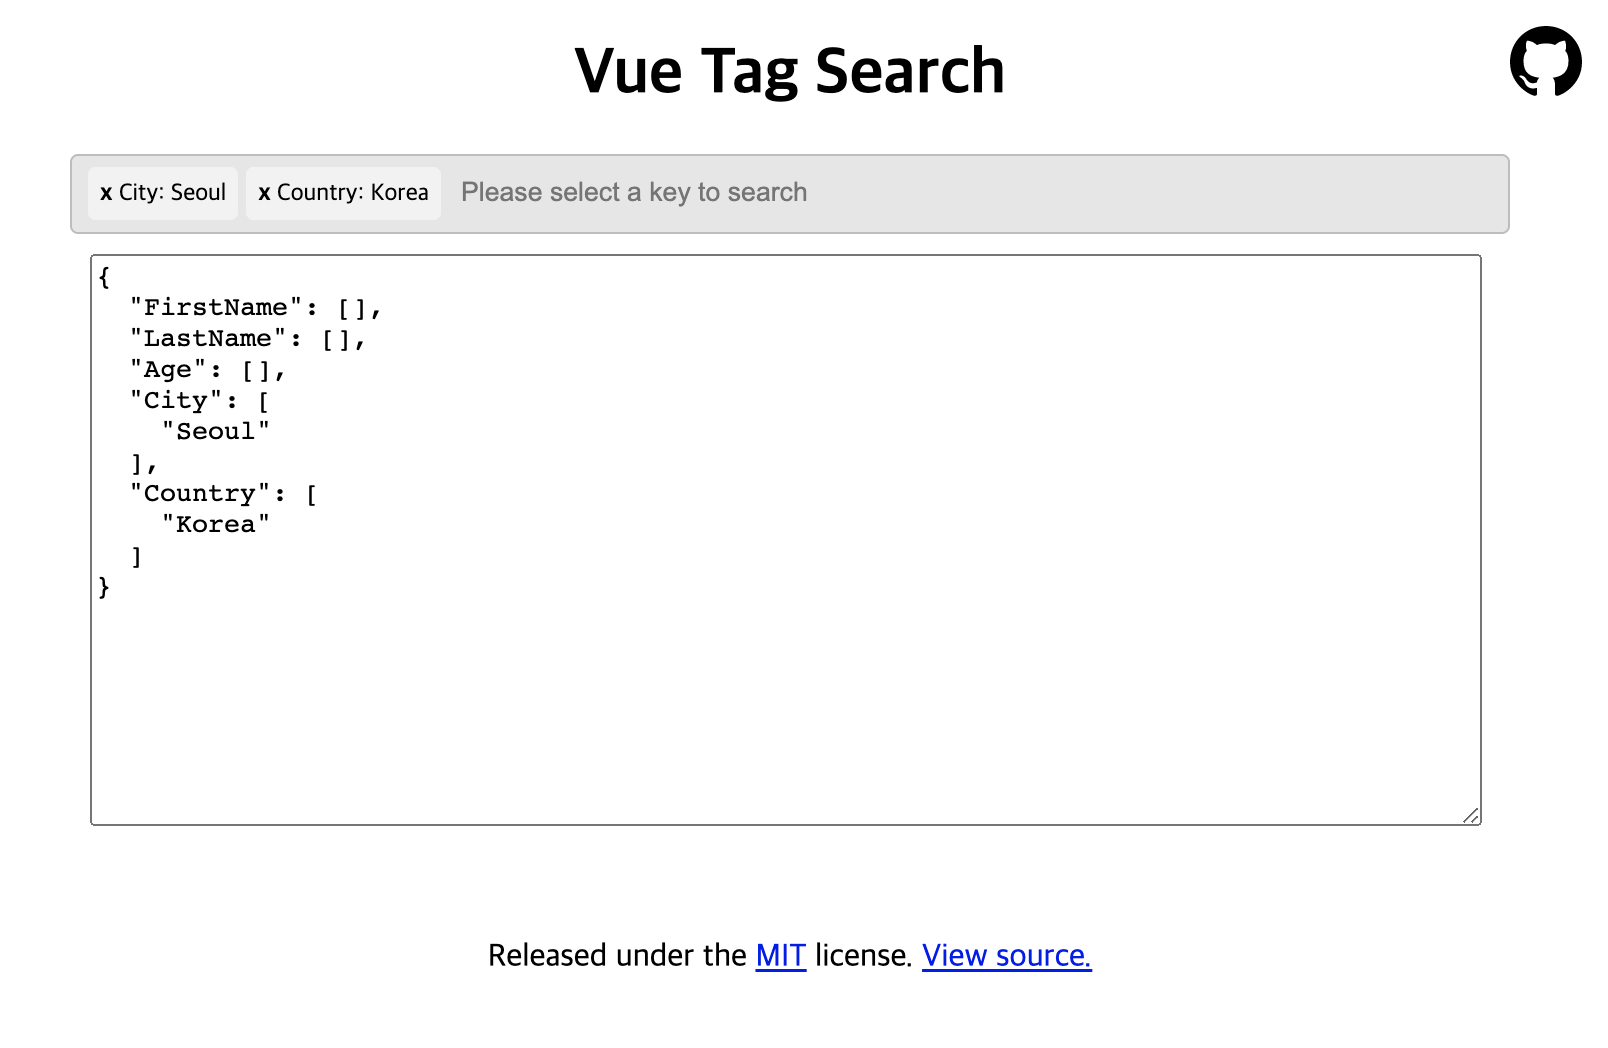
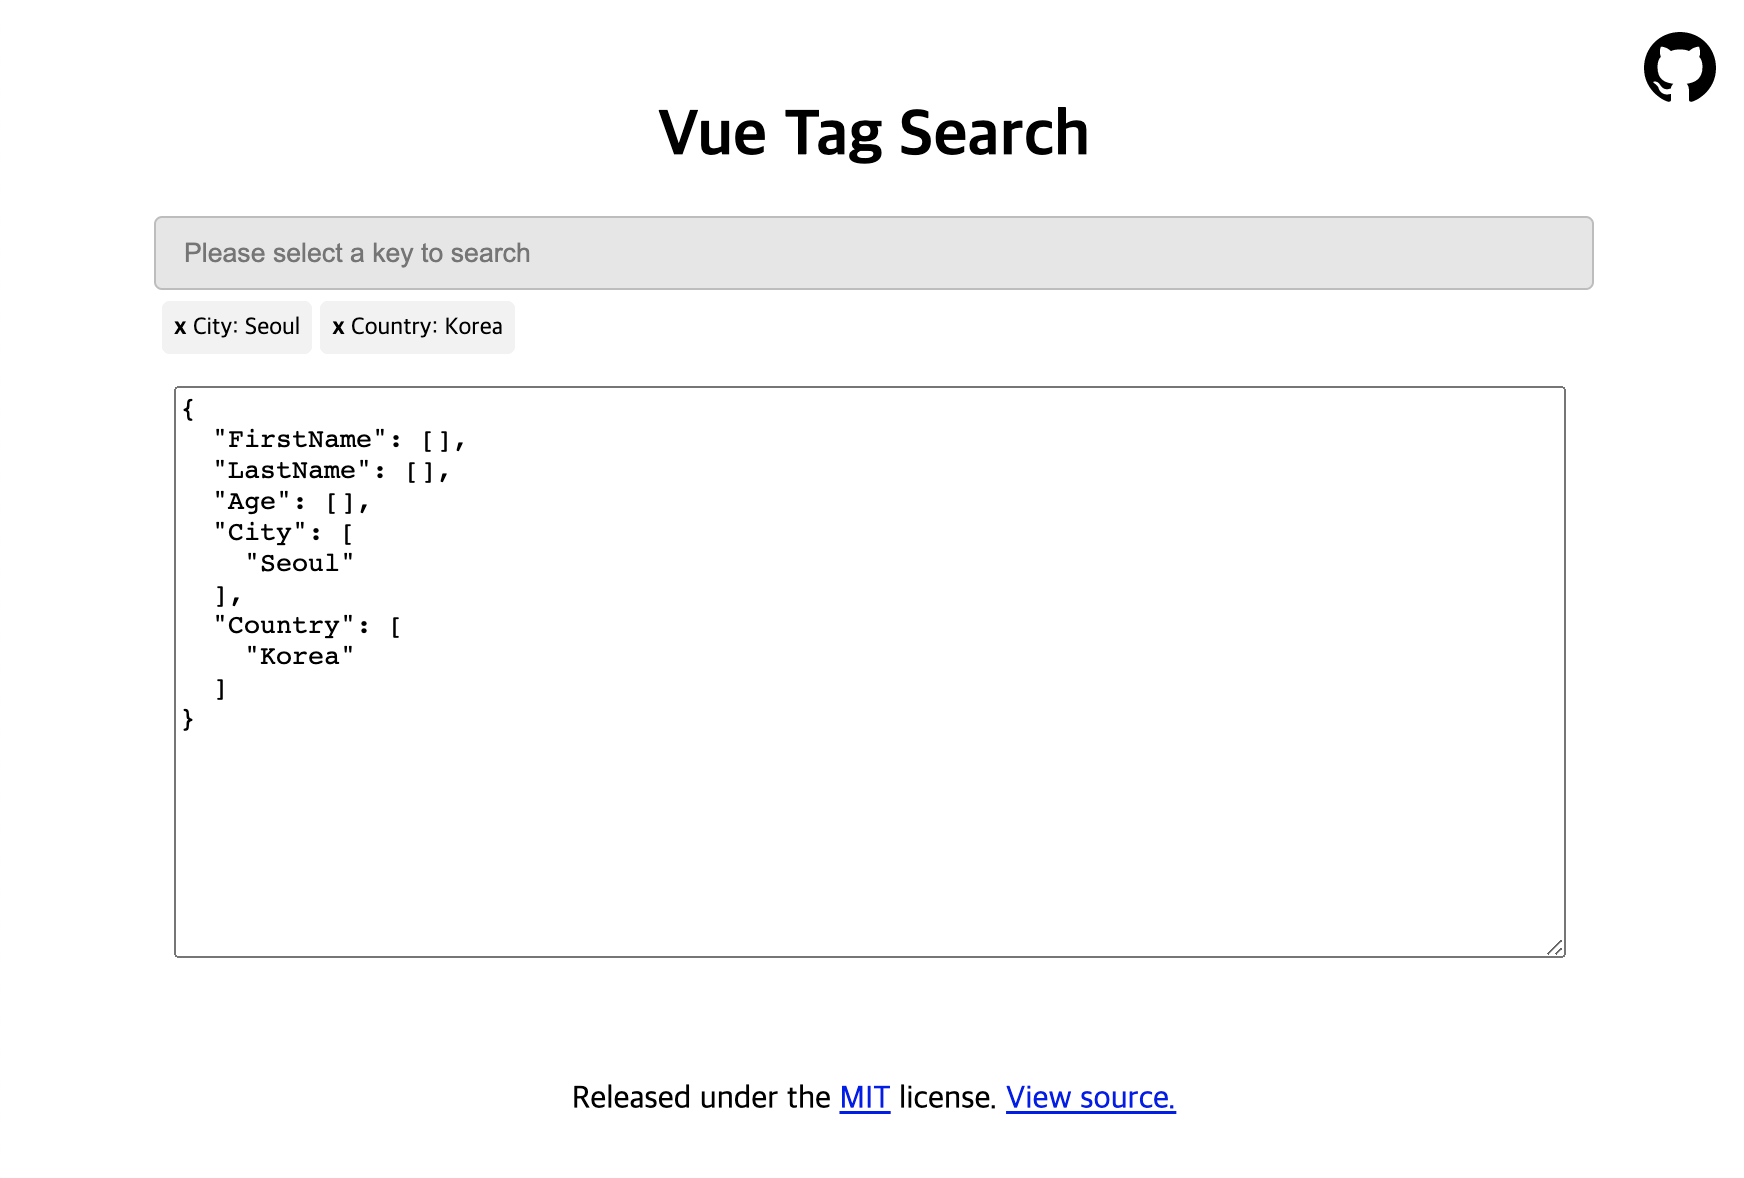
feat: edit tag ui position

diff --git a/src/components/VueTagSearch.js b/src/components/VueTagSearch.js
@@ -194,28 +194,49 @@ export default {
     this.debouncedGetData = new Debounce(200)
   },
   render (h) {
-    return h('div', {
-      ref: 'search',
-      staticClass: ['vue-tagsearch']
-    },
-    [
-      h(VueTagSearchInput, {
-        props: {
-          tagValues: this.tagValues,
-          placeholder: this.placeholder,
-          inputValue: this.inputValue,
-          inputTagOptions: this.inputTagOptions
-        },
-        on: {
-          show: this.show,
-          input: this.changeValue,
-          remove: this.removeItem
-        },
-        nativeOn: {
-          keydown: this.keydownHandler
-        }
-      }),
-      this.isShow ? this.renderSearchPanel(h) : undefined
+    return h('div', [
+      h('div', {
+        ref: 'search',
+        staticClass: ['vue-tagsearch']
+      },
+      [
+        h(VueTagSearchInput, {
+          props: {
+            tagValues: this.tagValues,
+            placeholder: this.placeholder,
+            inputValue: this.inputValue,
+            inputTagOptions: this.inputTagOptions
+          },
+          on: {
+            show: this.show,
+            input: this.changeValue,
+            remove: this.removeItem
+          },
+          nativeOn: {
+            keydown: this.keydownHandler
+          }
+        }),
+        this.isShow ? this.renderSearchPanel(h) : undefined
+      ]),
+      this.tagValues.map((tag, index) => {
+        return h(this.inputTagOptions.tag, {
+          class: {
+            'vue-tagsearch-tag': this.inputTagOptions.tag === 'span'
+          },
+          style: {
+            'margin-left': '4px'
+          },
+          props: this.inputTagOptions.props
+        }, [
+          h('a', {
+            staticClass: ['vue-tagsearch-tag-remove'],
+            on: {
+              click: () => this.removeItem({ deleteItem: tag.split(': '), index })
+            }
+          }),
+          tag
+        ])
+      })
     ])
   }
 }

diff --git a/src/App.vue b/src/App.vue
@@ -19,13 +19,13 @@
         @remove:searchModel="removeSearchModel"
       >
       </vue-tag-search>
-      <textarea
-        style="width: 690px; height: 280px; margin: 10px"
-        readonly
-        :value="JSON.stringify(searchModel, null, 2)"
-      >
-      </textarea>
     </div>
+    <textarea
+      style="width: 690px; height: 280px; margin: 10px"
+      readonly
+      :value="JSON.stringify(searchModel, null, 2)"
+    >
+    </textarea>
     <footer class="footer">
       Released under the <a href="//github.com/seungwoo321/vue-tag-search/blob/master/LICENSE">MIT</a> license. <a href="//github.com/seungwoo321/vue-tag-search">View source.</a>
     </footer>
@@ -67,7 +67,7 @@ export default {
 
 <style>
 #app {
-  /* padding-top: 20px; */
+  padding-top: 20px;
   width: 720px;
   margin: 0 auto;
 }
@@ -76,9 +76,6 @@ export default {
   flex-flow: column;
 }
 @media screen and (min-width: 900px) {
-  .main-wrapper {
-    flex-flow: row;
-  }
   .main-wrapper > textarea {
     width: 500px;
   }

diff --git a/src/components/VueTagSearchInput.js b/src/components/VueTagSearchInput.js
@@ -42,25 +42,6 @@ export default {
       }
     },
     [
-      this.tagValues.map((tag, index) => {
-        return h(this.inputTagOptions.tag, {
-          class: {
-            'vue-tagsearch-tag': this.inputTagOptions.tag === 'span'
-          },
-          style: {
-            'margin-left': '4px'
-          },
-          props: this.inputTagOptions.props
-        }, [
-          h('a', {
-            staticClass: ['vue-tagsearch-tag-remove'],
-            on: {
-              click: () => this.$emit('remove', { deleteItem: tag.split(': '), index })
-            }
-          }),
-          tag
-        ])
-      }),
       h('input', {
         staticClass: ['vue-tagsearch-input'],
         ref: 'input',
